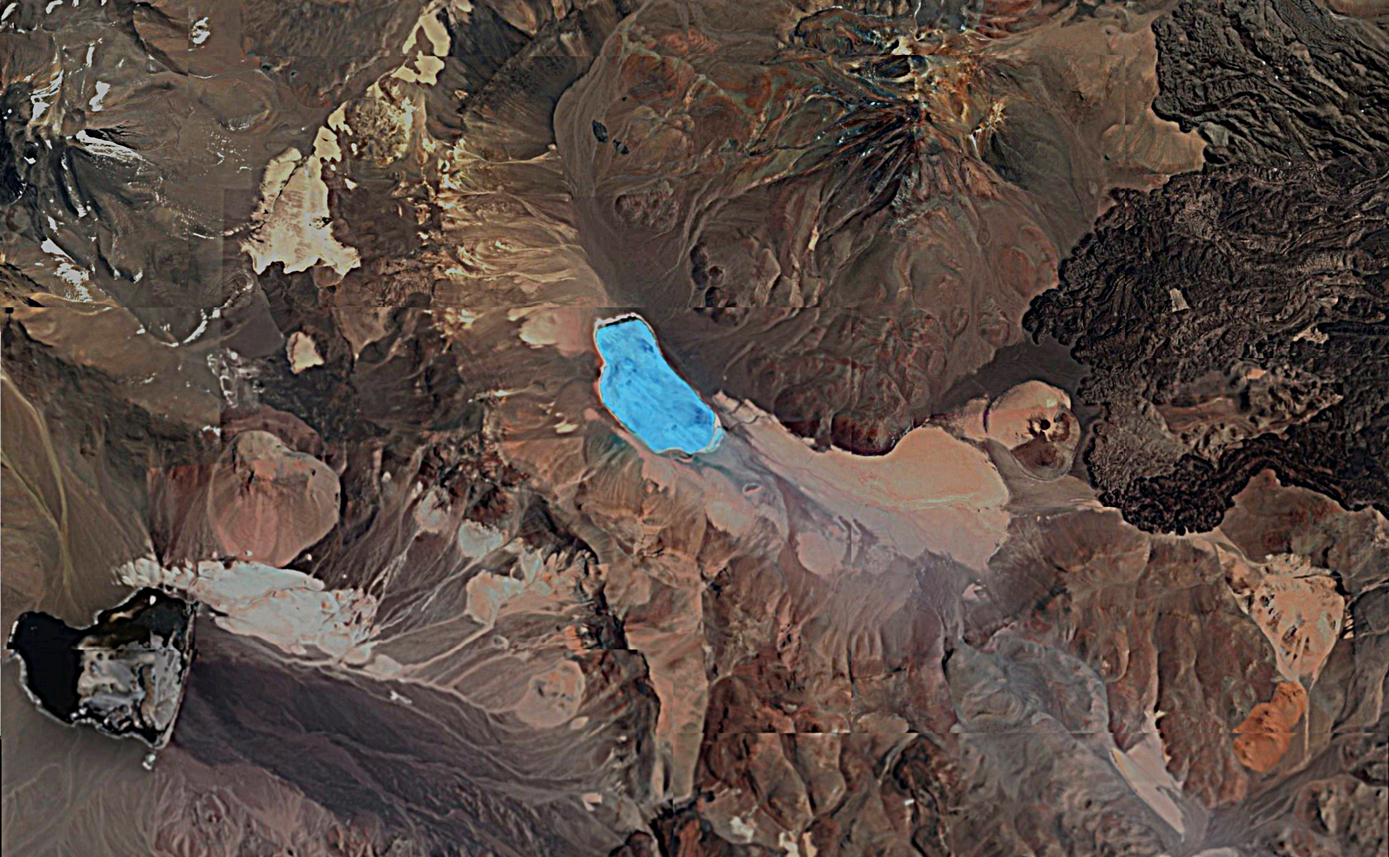
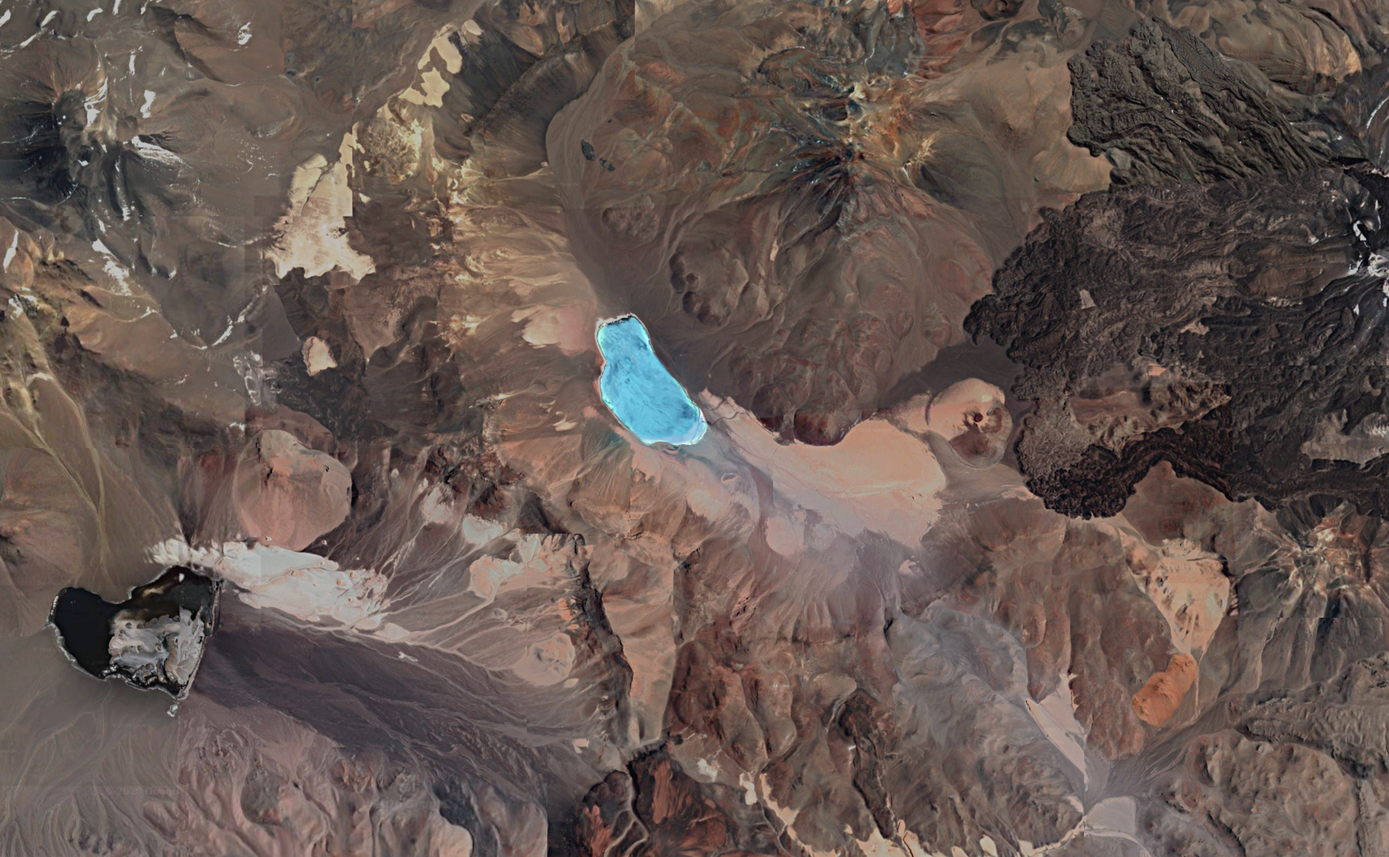
texture revision, increase blast damage

diff --git a/src/components/assets-loader.js b/src/components/assets-loader.js
@@ -90,7 +90,7 @@ export function loadAssets(scene, updateAssetStatus) {
       //Looks like mesh 0 is the base box
       newMeshes[0].scaling = new  BABYLON.Vector3(1.88, 2,-1.88);
       newMeshes[0].addRotation(0, Math.PI, 0);
-      newMeshes[0].position = new  BABYLON.Vector3(-0,4.5,.5)
+      newMeshes[0].position = new  BABYLON.Vector3(-0,3.5,.5)
 
       var terrain = newMeshes[1]
       terrain.updateFacetData();

diff --git a/src/components/constants.js b/src/components/constants.js
@@ -208,7 +208,7 @@ export const GUN_POSITION = {
 export const BLAST_ALPHA = 0.9
 export const MORTAR_BLAST_RADIUS_START = 1
 export const MORTAR_BLAST_LIFE = 10
-export const BLAST_DAMAGE_COEFF = 3
+export const BLAST_DAMAGE_COEFF = 4
 
 export const GUN_BLAST_RADIUS_START = 0.3
 export const GUN_BLAST_LIFE = 8
